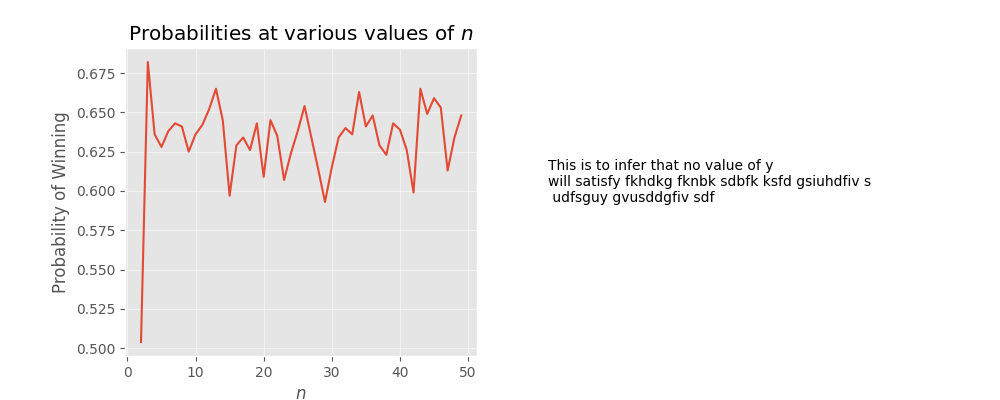
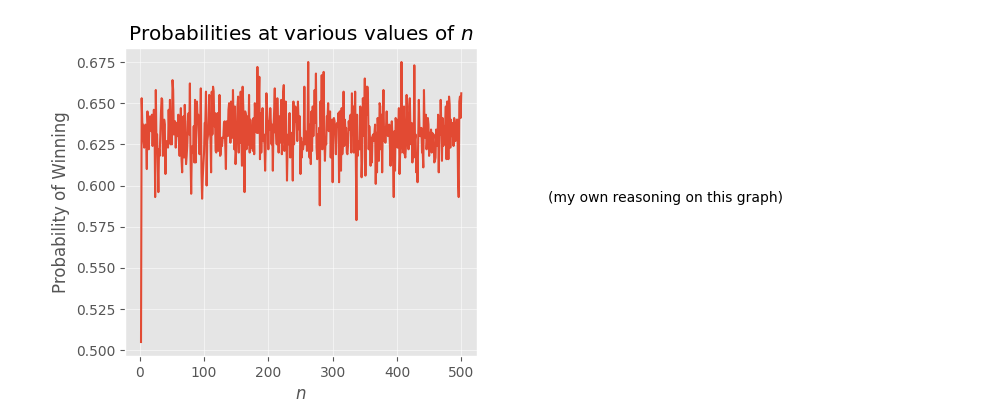
do it

diff --git a/Assignment 02/B23395-Assignment02-IC252-Q3.py b/Assignment 02/B23395-Assignment02-IC252-Q3.py
@@ -2,7 +2,7 @@ import numpy as np
 import matplotlib.pyplot as plt
 from matplotlib.gridspec import GridSpec
 
-n_values = np.arange(2,50)
+n_values = np.arange(2,501)
 prob_values=[]
 for n in range(len(n_values)):
     arr = np.arange(1,n_values[n]+1)
@@ -27,7 +27,7 @@ plt.grid(alpha=0.5)
 
 plt.subplot(1,2,2)
 plt.axis('off')
-plt.text(0,0.5,"As getting this is a random ")
+plt.text(0,0.5,"(my own reasoning on this graph)")
 '''--> ... to be continued'''
 
 
